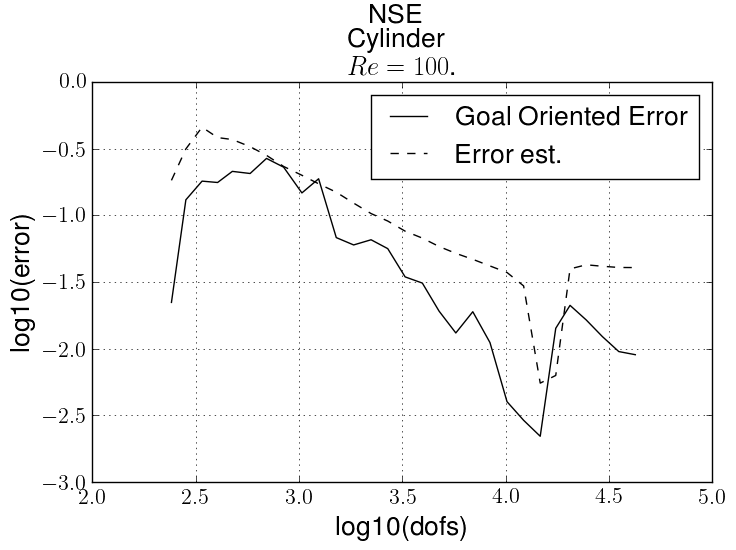
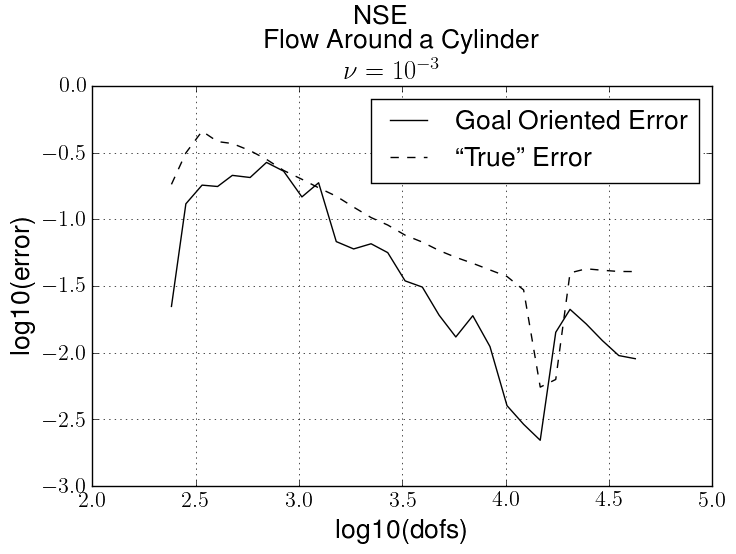
Fixed the plot function to make things a bit prettier, use better terminology, and fixed the plots for AFES.

diff --git a/Papers/AFES/Tutorial.tex b/Papers/AFES/Tutorial.tex
@@ -307,9 +307,9 @@ entering the details for the domain, boundary conditions, and the weak form.
     that the test piecewise constants and the trial functions are continuous
     piecewise linear (see \cite{Hoffman2006a} for more details).
 
-    Given a step size $k$ and applying the cG(1)cG(1) finite element discretization
-    to \eqref{eq:ADR} with $v \in X \subset H^1_0(\Omega)$
-    gives the following weak residual
+    Given a step size $k$ and applying the cG(1)cG(1) finite element
+    discretization to \eqref{eq:ADR} with $v \in X \subset H^1_0(\Omega)$ gives
+    the following weak residual
     \begin{equation}
     \begin{split}
         r(\bar{u}^n; v) &= \left(u^n - u^{n-1}\right)\,k^{-1}
@@ -362,11 +362,11 @@ entering the details for the domain, boundary conditions, and the weak form.
     \begin{figure}[H]
         \centering
         \includegraphics[scale=0.5]{Figures/AdaptiveADRkappa1E-1.png}
-        \caption{Adaptive error estimate versus ``true'' error versus a ``true''
-            error obtained from a uniform refinement for the Solution of the
-            ADR equation.}
-        \label{fig:ADR_EI}
+        \caption{Adaptive error estimate versus ``true'' error for the Solution
+            for the ADR equation.}
+        \label{fig:ADR_err}
     \end{figure}
+
 \subsubsection{Navier-Stokes Equations} \label{sss:NSE}
 
     In this subsection we demonstrate the use of \texttt{AFES} on a more complicated
@@ -618,5 +618,13 @@ entering the details for the domain, boundary conditions, and the weak form.
     \lstinputlisting[firstline=5,label={lst:CylinderClass},
         caption={NSE \texttt{Solver} subclass.}
     ]{NSE.py}
+
+    \begin{figure}[H]
+        \centering
+        \includegraphics[scale=0.5]{Figures/AdaptiveCylinder.png}
+        \caption{Adaptive error estimate versus ``true'' error for the Solution
+            of the NSE.}
+        \label{fig:NSE_err}
+    \end{figure}
 
 %\subsection{Optimization} \label{sse:Optimization}

diff --git a/src/plot.py b/src/plot.py
@@ -1,4 +1,5 @@
 from pylab import *
+import os
 
 if len(sys.argv) < 3:
     print("Usage: python plot.py <adaptive data> <uniform data> title")
@@ -33,17 +34,23 @@ if uniformfile is not None:
                      - adapt_data[-1, 1])
 
 hold(True)
-title(titlestr, va='baseline', ha='center', multialignment='center')
+title(titlestr, va='baseline', ha='center', loc='center')
+
 plot(log10(adaptdofs), log10(adapterr), 'k')
+
 if uniformfile is not None:
     plot(log10(uniformdofs), log10(uniformerr), 'r')
+
 plot(log10(adaptdofs), log10(adapterr_est), 'k--')
+
 if uniformfile is not None:
-    legend(["Goal Oriented Error", "Uniform Error", "Error est."], loc='best')
+    legend(["Goal Oriented Error", "Uniform Error", "``True'' Error"],
+           loc='best')
 else:
-    legend(["Goal Oriented Error", "Error est."], loc='best')
+    legend(["Goal Oriented Error", "``True'' Error"], loc='best')
+
 ylabel('log10(error)')
 xlabel('log10(dofs)')
 grid(True)
-savefig('plot.png', bbox_inches='tight')
+savefig(os.path.splitext(os.path.basename(adaptfile))[0], bbox_inches='tight')
 show()
